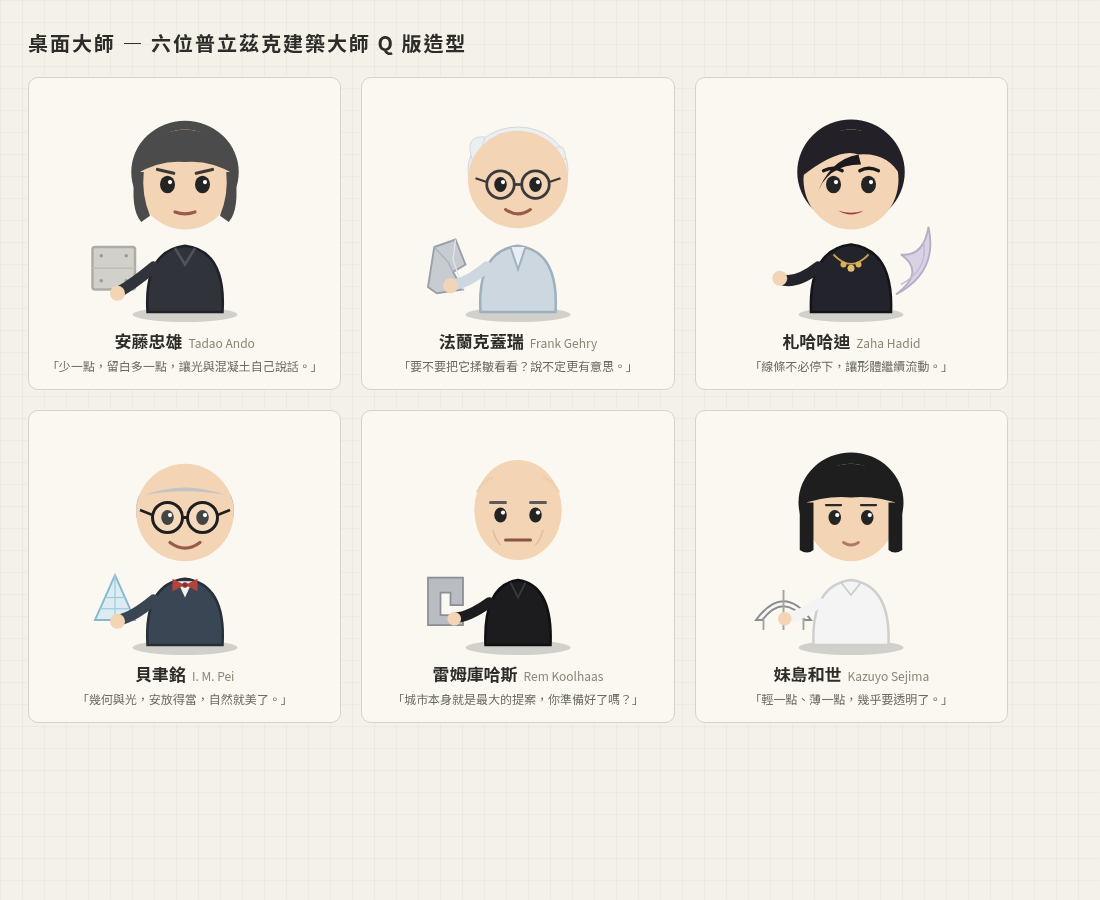
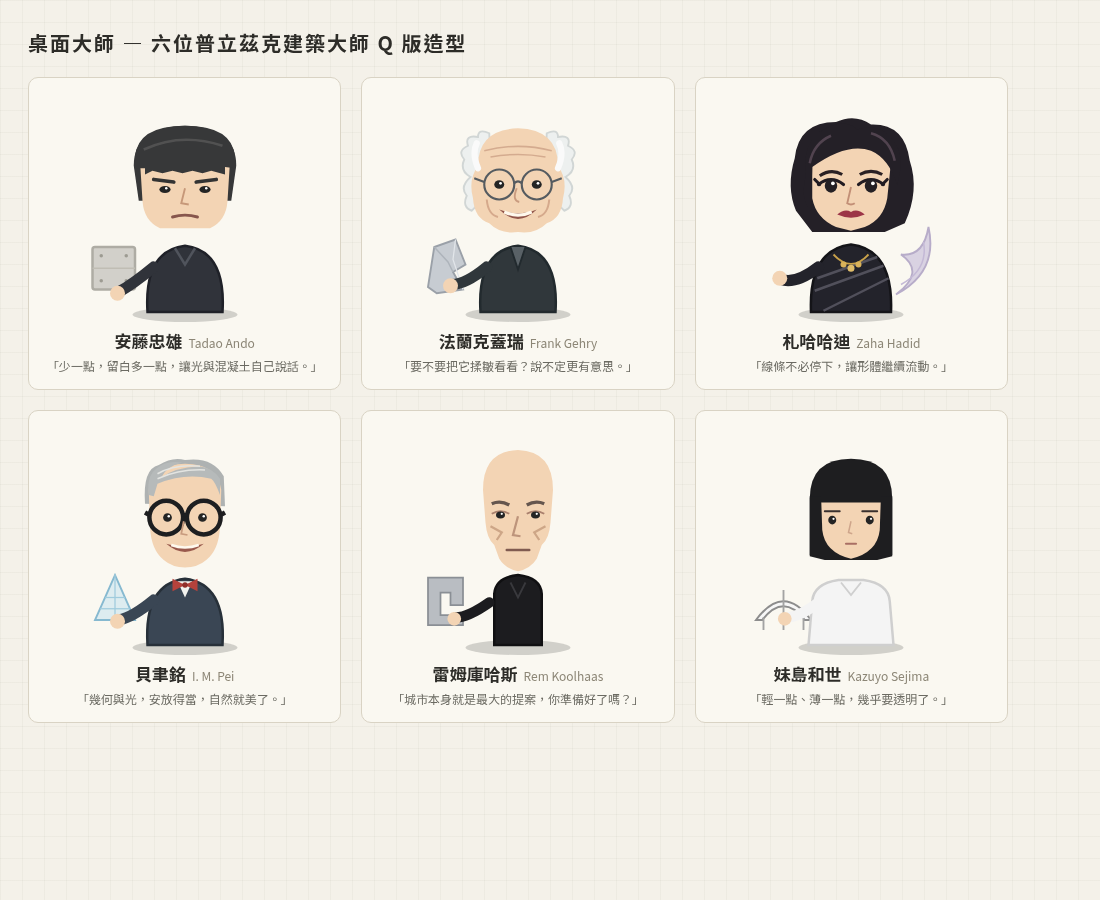
feat: 加強六位大師 Q 版肖像辨識度
以更誇張的漫畫特徵重畫安藤、蓋瑞、哈迪、貝聿銘、庫哈斯、妹島：
各自不同的臉型與髮型（安藤平瀏海頭、蓋瑞禿頂白鬚邊髮、貝聿銘大圓框等），
並保留原有動畫 class 與角色資料。

diff --git a/renderer/characters.js b/renderer/characters.js
@@ -68,16 +68,16 @@
         <circle class="hand" cx="26" cy="157" r="6" fill="${SKIN}"/>
       </g>
       <g class="head">
-        <ellipse cx="80" cy="60" rx="43" ry="41" fill="#4b4b4b"/>
-        <ellipse class="face" cx="80" cy="66" rx="39" ry="40" fill="${SKIN}"/>
-        <path d="M40 62 Q40 29 80 26 Q120 29 120 62 Q100 50 80 52 Q60 50 40 62 Z" fill="#4b4b4b"/>
-        <path d="M40 60 Q36 90 45 100 L52 95 Q45 78 47 60 Z" fill="#4b4b4b"/>
-        <path d="M120 60 Q124 90 115 100 L108 95 Q115 78 113 60 Z" fill="#4b4b4b"/>
-        <line x1="58" y1="58" x2="71" y2="61" stroke="#3a3a3a" stroke-width="2.6" stroke-linecap="round"/>
-        <line x1="102" y1="58" x2="89" y2="61" stroke="#3a3a3a" stroke-width="2.6" stroke-linecap="round"/>
-        <g class="eyes">${eyes(66, 94, 70)}</g>
-        <path class="mouth" d="M72 92 Q80 95 88 92" fill="none" stroke="#9a5a4a" stroke-width="2.6" stroke-linecap="round"/>
-        <path class="mouth-happy" display="none" d="M70 90 Q80 100 90 90 Q80 96 70 90 Z" fill="#b5674f"/>
+        <path d="M39 55 Q39 24 80 23 Q121 24 121 55 L117 83 L43 83 Z" fill="#373839"/>
+        <path class="face" d="M44 51 L116 51 L114 83 Q113 99 100 105 L60 105 Q47 99 46 83 Z" fill="${SKIN}"/>
+        <path d="M40 57 L40 48 Q42 23 80 23 Q118 23 120 48 L120 57 L112 56 L112 62 L101 59 L94 61 L86 59 L78 61 L70 59 L62 61 L54 59 L48 62 L48 57 Z" fill="#373839"/>
+        <path d="M47 42 Q77 28 110 39" fill="none" stroke="#626262" stroke-width="2" opacity=".6"/>
+        <path d="M55 66 L71 68 M89 68 L105 66" stroke="#333" stroke-width="3" stroke-linecap="round"/>
+        <ellipse class="eye" cx="64" cy="74" rx="4.5" ry="2.8" fill="#242424"/><ellipse class="eye" cx="96" cy="74" rx="4.5" ry="2.8" fill="#242424"/>
+        <circle class="shine" cx="65" cy="73" r="1" fill="white"/><circle class="shine" cx="97" cy="73" r="1" fill="white"/>
+        <path d="M80 73 L77 85 L83 86" fill="none" stroke="#c69879" stroke-width="1.5"/>
+        <path class="mouth" d="M70 96 Q80 93 90 96" fill="none" stroke="#87564c" stroke-width="2.3" stroke-linecap="round"/>
+        <path class="mouth-happy" display="none" d="M70 94 Q80 101 90 94" fill="none" stroke="#87564c" stroke-width="2.5" stroke-linecap="round"/>
         ${THINK_DOTS}
       </g>
       ${SKETCH}
@@ -94,32 +94,25 @@
     </g>
     <g class="pet-body">
       <g class="body">
-        <path d="M50 172 Q47 123 80 119 Q113 123 110 172 Z" fill="#cdd7e0" stroke="#9fb0bd" stroke-width="2"/>
-        <path d="M74 120 L80 138 L86 120" fill="#e7edf2" stroke="#9fb0bd" stroke-width="1.5"/>
+        <path d="M50 172 Q47 123 80 119 Q113 123 110 172 Z" fill="#30373b" stroke="#222a2e" stroke-width="2"/>
+        <path d="M74 120 L80 138 L86 120" fill="#596166" stroke="#222a2e" stroke-width="1.5"/>
       </g>
       <g class="gesture-arm">
-        <path d="M55 136 Q38 150 27 150" fill="none" stroke="#cdd7e0" stroke-width="9" stroke-linecap="round"/>
+        <path d="M55 136 Q38 150 27 150" fill="none" stroke="#30373b" stroke-width="9" stroke-linecap="round"/>
         <circle class="hand" cx="26" cy="151" r="6" fill="${SKIN}"/>
       </g>
       <g class="head">
-        <g stroke="#d4d8db" stroke-width="0.8">
-          <ellipse cx="80" cy="58" rx="40" ry="34" fill="#eceff1"/>
-          <path d="M44 52 Q36 30 54 32 Q48 42 56 52 Z" fill="#eceff1"/>
-          <path d="M60 40 Q62 24 74 32 Q68 40 72 48 Z" fill="#eceff1"/>
-          <path d="M84 38 Q92 24 98 36 Q92 42 96 50 Z" fill="#eceff1"/>
-          <path d="M104 46 Q118 32 118 50 Q110 48 108 56 Z" fill="#eceff1"/>
-        </g>
-        <ellipse class="face" cx="80" cy="66" rx="40" ry="39" fill="${SKIN}"/>
-        <g class="eyes">${eyes(66, 94, 70, 5)}</g>
-        <g class="glasses">
-          <circle cx="66" cy="70" r="11" fill="none" stroke="#3a3a3a" stroke-width="2.2"/>
-          <circle cx="94" cy="70" r="11" fill="none" stroke="#3a3a3a" stroke-width="2.2"/>
-          <line x1="77" y1="70" x2="83" y2="70" stroke="#3a3a3a" stroke-width="2.2"/>
-          <line x1="55" y1="68" x2="46" y2="65" stroke="#3a3a3a" stroke-width="1.8"/>
-          <line x1="105" y1="68" x2="114" y2="65" stroke="#3a3a3a" stroke-width="1.8"/>
-        </g>
-        <path class="mouth" d="M70 90 Q80 97 90 90" fill="none" stroke="#9a5a4a" stroke-width="2.4" stroke-linecap="round"/>
-        <path class="mouth-happy" display="none" d="M68 89 Q80 101 92 89 Q80 96 68 89 Z" fill="#b5674f"/>
+        <path d="M42 64 Q33 59 37 50 Q31 43 40 39 Q37 30 48 32 Q48 25 57 29 L59 75 L43 91 Q35 88 39 79 Q33 72 42 64 Z M118 64 Q127 59 123 50 Q129 43 120 39 Q123 30 112 32 Q112 25 103 29 L101 75 L117 91 Q125 88 121 79 Q127 72 118 64 Z" fill="#edf0ef" stroke="#d1d6d5" stroke-width="1.5"/>
+        <path class="face" d="M48 55 Q48 26 80 25 Q112 26 112 55 Q120 66 116 81 Q115 97 103 101 Q94 110 80 108 Q66 110 57 101 Q45 97 44 81 Q40 66 48 55 Z" fill="${SKIN}"/>
+        <path d="M53 43 Q80 36 107 43 M58 48 Q80 44 102 48" fill="none" stroke="#d4ab8f" stroke-width="1.2"/>
+        <path d="M48 57 Q43 45 47 37 M112 57 Q117 45 113 37" fill="none" stroke="#fafafa" stroke-width="5" stroke-linecap="round"/>
+        <path d="M55 82 Q56 94 64 96 M105 82 Q104 94 96 96" fill="none" stroke="#d5a98c" stroke-width="1.6"/>
+        <ellipse class="eye" cx="65" cy="70" rx="4" ry="3.4" fill="#242424"/><ellipse class="eye" cx="95" cy="70" rx="4" ry="3.4" fill="#242424"/>
+        <circle class="shine" cx="66" cy="69" r="1.1" fill="white"/><circle class="shine" cx="96" cy="69" r="1.1" fill="white"/>
+        <g class="glasses" fill="none" stroke="#555b60" stroke-width="1.7"><circle cx="65" cy="70" r="12"/><circle cx="95" cy="70" r="12"/><path d="M77 69 Q80 66 83 69 M53 68 L45 65 M107 68 L115 65"/></g>
+        <path d="M79 73 Q75 83 81 84" fill="none" stroke="#c99b7f" stroke-width="1.5"/>
+        <path class="mouth" d="M65 90 Q80 105 95 90 Q80 96 65 90 Z" fill="#92564b"/><path class="mouth" d="M69 92 Q80 97 91 92" fill="none" stroke="#fff9ed" stroke-width="2.5"/>
+        <path class="mouth-happy" display="none" d="M62 88 Q80 110 98 88 Q80 98 62 88 Z" fill="#9b514a"/>
         ${THINK_DOTS}
       </g>
       ${SKETCH}
@@ -136,7 +129,7 @@
     <g class="pet-body">
       <g class="body">
         <path d="M48 172 Q46 122 80 118 Q114 122 112 172 Z" fill="#23232b" stroke="#141418" stroke-width="2"/>
-        <path d="M66 126 Q80 141 94 126" fill="none" stroke="#c9a24a" stroke-width="1.5"/>
+        <path d="M53 145 L101 128 M51 155 L106 135 M58 171 L110 145" fill="none" stroke="#51505b" stroke-width="2"/><path d="M66 126 Q80 141 94 126" fill="none" stroke="#c9a24a" stroke-width="1.5"/>
         <circle cx="74" cy="134" r="2.4" fill="#d9b25a"/><circle cx="80" cy="137" r="2.8" fill="#e0bd6a"/><circle cx="86" cy="134" r="2.4" fill="#d9b25a"/>
       </g>
       <g class="gesture-arm">
@@ -144,15 +137,17 @@
         <circle class="hand" cx="23" cy="145" r="6" fill="${SKIN}"/>
       </g>
       <g class="head">
-        <ellipse cx="80" cy="60" rx="43" ry="42" fill="#242027"/>
-        <ellipse class="face" cx="80" cy="66" rx="38" ry="40" fill="${SKIN}"/>
-        <path d="M40 64 Q38 28 80 26 Q122 28 120 64 Q110 44 86 46 Q70 40 40 64 Z" fill="#242027"/>
-        <path d="M86 46 Q62 50 52 80 Q60 54 88 54 Z" fill="#1b181f"/>
-        <path d="M58 59 Q66 55 73 59" stroke="#1a1a1a" stroke-width="2.6" fill="none" stroke-linecap="round"/>
-        <path d="M87 59 Q94 55 102 59" stroke="#1a1a1a" stroke-width="2.6" fill="none" stroke-linecap="round"/>
-        <g class="eyes">${eyes(66, 94, 70)}</g>
-        <path class="mouth" d="M70 91 Q80 97 90 91 Q80 94 70 91 Z" fill="#9c3b4a"/>
-        <path class="mouth-happy" display="none" d="M68 90 Q80 100 92 90 Q80 95 68 90 Z" fill="#b4475a"/>
+        <path d="M36 91 Q28 72 35 49 Q38 20 68 20 Q83 13 96 22 Q123 21 127 51 Q135 75 123 101 L107 108 L49 108 Z" fill="#242027"/>
+        <path class="face" d="M49 49 Q55 34 80 34 Q103 32 112 52 L109 81 Q106 98 91 104 L80 107 L68 104 Q52 97 49 81 Z" fill="${SKIN}"/>
+        <path d="M44 62 Q40 35 60 25 Q75 17 85 26 Q107 19 118 42 Q122 53 117 70 Q110 49 96 43 Q77 36 49 56 L48 91 Q39 83 44 62 Z" fill="#242027"/>
+        <path d="M96 29 Q111 33 115 51 M47 53 Q50 37 64 31" fill="none" stroke="#51434f" stroke-width="2"/>
+        <path d="M55 63 Q64 57 73 62 M87 62 Q96 57 105 62" fill="none" stroke="#2a2023" stroke-width="2.5"/>
+        <path d="M54 70 Q64 62 74 70 M86 70 Q96 62 106 70 M55 70 L51 66 M105 70 L109 66" fill="none" stroke="#211b21" stroke-width="2.5" stroke-linecap="round"/>
+        <ellipse class="eye" cx="64" cy="71" rx="5" ry="5.5" fill="#242024"/><ellipse class="eye" cx="96" cy="71" rx="5" ry="5.5" fill="#242024"/>
+        <circle class="shine" cx="65.5" cy="69" r="1.5" fill="white"/><circle class="shine" cx="97.5" cy="69" r="1.5" fill="white"/>
+        <path d="M80 72 L77 85 Q80 87 83 85" fill="none" stroke="#c28f76" stroke-width="1.5"/>
+        <path class="mouth" d="M69 94 Q75 89 80 92 Q85 89 91 94 Q80 99 69 94 Z" fill="#9c3547"/>
+        <path class="mouth-happy" display="none" d="M67 92 Q80 104 93 92 Q80 97 67 92 Z" fill="#ad3d50"/>
         ${THINK_DOTS}
       </g>
       ${SKETCH}
@@ -180,20 +175,16 @@
         <circle class="hand" cx="26" cy="153" r="6" fill="${SKIN}"/>
       </g>
       <g class="head">
-        <path d="M41 70 Q39 48 54 44 Q48 60 50 74 Z" fill="#b9b9b9"/>
-        <path d="M119 70 Q121 48 106 44 Q112 60 110 74 Z" fill="#b9b9b9"/>
-        <ellipse class="face" cx="80" cy="66" rx="39" ry="39" fill="${SKIN}"/>
-        <path d="M48 52 Q80 40 112 52 Q80 46 48 52 Z" fill="#c4c4c4"/>
-        <g class="eyes">${eyes(66, 94, 70, 5)}</g>
-        <g class="glasses">
-          <circle cx="66" cy="70" r="12" fill="#ffffff" fill-opacity="0.15" stroke="#1e1e1e" stroke-width="2.4"/>
-          <circle cx="94" cy="70" r="12" fill="#ffffff" fill-opacity="0.15" stroke="#1e1e1e" stroke-width="2.4"/>
-          <line x1="78" y1="70" x2="82" y2="70" stroke="#1e1e1e" stroke-width="2.4"/>
-          <line x1="54" y1="68" x2="44" y2="64" stroke="#1e1e1e" stroke-width="2"/>
-          <line x1="106" y1="68" x2="116" y2="64" stroke="#1e1e1e" stroke-width="2"/>
-        </g>
-        <path class="mouth" d="M68 90 Q80 99 92 90" fill="none" stroke="#9a5a4a" stroke-width="2.6" stroke-linecap="round"/>
-        <path class="mouth-happy" display="none" d="M66 89 Q80 102 94 89 Q80 97 66 89 Z" fill="#b5674f"/>
+        <path d="M48 59 Q46 31 59 28 Q70 21 80 24 Q102 21 111 37 L112 61 Z" fill="#aeb2b2"/>
+        <path class="face" d="M51 48 Q54 27 80 27 Q106 27 109 48 L108 78 Q107 96 97 104 Q90 110 80 110 Q70 110 63 104 Q53 96 52 78 Z" fill="${SKIN}"/>
+        <path d="M51 52 Q49 37 57 31 Q64 24 78 26 Q65 29 61 38 Q72 30 91 29 Q102 30 108 39 L108 52 Q104 41 101 39 Q80 34 58 43 L55 53 Z" fill="#b6baba"/>
+        <path d="M58 35 Q72 27 92 29 M58 39 Q76 31 96 32" fill="none" stroke="#e3e4e1" stroke-width="1.2"/>
+        <ellipse class="eye" cx="66" cy="70" rx="3.5" ry="3.4" fill="#242424"/><ellipse class="eye" cx="94" cy="70" rx="3.5" ry="3.4" fill="#242424"/>
+        <circle class="shine" cx="67" cy="69" r="1" fill="white"/><circle class="shine" cx="95" cy="69" r="1" fill="white"/>
+        <g class="glasses" fill="none" stroke="#1d1e20" stroke-width="3.6"><circle cx="65" cy="70" r="13.5"/><circle cx="95" cy="70" r="13.5"/><path d="M78.5 69 Q80 67 81.5 69 M51.5 68 L48 66 M108.5 68 L112 66"/></g>
+        <path d="M79 73 L77 83 L82 84" fill="none" stroke="#c89b7e" stroke-width="1.4"/>
+        <path class="mouth" d="M65 91 Q80 104 95 91 Q80 96 65 91 Z" fill="#99594c"/><path class="mouth" d="M69 92 Q80 96 91 92" fill="none" stroke="#fff9ee" stroke-width="2"/>
+        <path class="mouth-happy" display="none" d="M62 89 Q80 109 98 89 Q80 97 62 89 Z" fill="#a85b4e"/>
         ${THINK_DOTS}
       </g>
       ${SKETCH}
@@ -208,7 +199,7 @@
     </g>
     <g class="pet-body">
       <g class="body">
-        <path d="M54 172 Q52 124 80 120 Q108 124 106 172 Z" fill="#1c1c1f" stroke="#101012" stroke-width="2"/>
+        <path d="M61 172 L61 131 Q62 118 80 116 Q98 118 99 131 L99 172 Z" fill="#1c1c1f" stroke="#101012" stroke-width="2"/>
         <path d="M74 122 L80 134 L86 122" fill="none" stroke="#39393d" stroke-width="1.5"/>
       </g>
       <g class="gesture-arm">
@@ -216,16 +207,15 @@
         <circle class="hand" cx="29" cy="151" r="5.5" fill="${SKIN}"/>
       </g>
       <g class="head">
-        <ellipse class="face" cx="80" cy="64" rx="35" ry="40" fill="${SKIN}"/>
-        <path d="M47 50 Q52 40 60 38" fill="none" stroke="#e7cbab" stroke-width="2" opacity="0.6"/>
-        <path d="M113 50 Q108 40 100 38" fill="none" stroke="#e7cbab" stroke-width="2" opacity="0.6"/>
-        <path d="M60 80 Q62 88 66 92" fill="none" stroke="#dcb892" stroke-width="1.4" opacity="0.7"/>
-        <path d="M100 80 Q98 88 94 92" fill="none" stroke="#dcb892" stroke-width="1.4" opacity="0.7"/>
-        <line x1="58" y1="58" x2="70" y2="58" stroke="#5b5b5b" stroke-width="2.4" stroke-linecap="round"/>
-        <line x1="90" y1="58" x2="102" y2="58" stroke="#5b5b5b" stroke-width="2.4" stroke-linecap="round"/>
-        <g class="eyes">${eyes(66, 94, 68, 5)}</g>
-        <path class="mouth" d="M70 88 L90 88" fill="none" stroke="#8a5346" stroke-width="2.4" stroke-linecap="round"/>
-        <path class="mouth-happy" display="none" d="M72 88 Q80 94 88 88" fill="none" stroke="#8a5346" stroke-width="2.4" stroke-linecap="round"/>
+        <path class="face" d="M52 48 Q52 17 80 16 Q108 17 108 48 L106 74 Q105 87 99 92 L95 103 Q90 111 80 113 Q70 111 65 103 L61 92 Q55 87 54 74 Z" fill="${SKIN}"/>
+        <path d="M58 77 L67 82 L63 88 M102 77 L93 82 L97 88" fill="none" stroke="#cda687" stroke-width="1.8"/>
+        <path d="M59 59 Q66 56 73 60 M87 60 Q94 56 101 59" fill="none" stroke="#65564e" stroke-width="2.6"/>
+        <path d="M59 67 Q66 63 73 67 M87 67 Q94 63 101 67" fill="none" stroke="#a9806d" stroke-width="1.6"/>
+        <ellipse class="eye" cx="66" cy="68" rx="3.6" ry="2.8" fill="#242424"/><ellipse class="eye" cx="94" cy="68" rx="3.6" ry="2.8" fill="#242424"/>
+        <circle class="shine" cx="67" cy="67" r=".9" fill="white"/><circle class="shine" cx="95" cy="67" r=".9" fill="white"/>
+        <path d="M80 69 L76 84 L82 85" fill="none" stroke="#bd947b" stroke-width="1.8"/>
+        <path class="mouth" d="M71 96 L89 96" fill="none" stroke="#805b50" stroke-width="2" stroke-linecap="round"/>
+        <path class="mouth-happy" display="none" d="M71 95 Q80 100 89 95" fill="none" stroke="#805b50" stroke-width="2" stroke-linecap="round"/>
         ${THINK_DOTS}
       </g>
       ${SKETCH}
@@ -243,7 +233,7 @@
     </g>
     <g class="pet-body">
       <g class="body">
-        <path d="M50 172 Q48 124 80 120 Q112 124 110 172 Z" fill="#f4f4f4" stroke="#cfcfcf" stroke-width="2"/>
+        <path d="M46 172 L49 137 Q50 123 70 120 L90 120 Q110 123 111 137 L114 172 Z" fill="#f4f4f4" stroke="#cfcfcf" stroke-width="2"/>
         <path d="M72 122 L80 132 L88 122" fill="none" stroke="#cfcfcf" stroke-width="1.5"/>
       </g>
       <g class="gesture-arm">
@@ -251,16 +241,16 @@
         <circle class="hand" cx="27" cy="151" r="5.5" fill="${SKIN}"/>
       </g>
       <g class="head">
-        <ellipse cx="80" cy="58" rx="42" ry="40" fill="#1e1e1e"/>
-        <ellipse class="face" cx="80" cy="66" rx="36" ry="39" fill="${SKIN}"/>
-        <path d="M39 60 Q40 30 80 27 Q120 30 121 60 Q100 52 80 54 Q60 52 39 60 Z" fill="#1e1e1e"/>
-        <path d="M39 58 L39 96 Q45 100 50 96 L50 58 Z" fill="#1e1e1e"/>
-        <path d="M121 58 L121 96 Q115 100 110 96 L110 58 Z" fill="#1e1e1e"/>
-        <line x1="60" y1="60" x2="72" y2="60" stroke="#2a2a2a" stroke-width="1.8" stroke-linecap="round"/>
-        <line x1="100" y1="60" x2="88" y2="60" stroke="#2a2a2a" stroke-width="1.8" stroke-linecap="round"/>
-        <g class="eyes">${eyes(67, 93, 70, 5)}</g>
-        <path class="mouth" d="M74 90 Q80 94 86 90" fill="none" stroke="#b07a6a" stroke-width="2.2" stroke-linecap="round"/>
-        <path class="mouth-happy" display="none" d="M72 90 Q80 97 88 90" fill="none" stroke="#b07a6a" stroke-width="2.4" stroke-linecap="round"/>
+        <path d="M47 55 Q47 23 80 23 Q113 23 113 55 L113 101 L101 104 L59 104 L47 101 Z" fill="#1e1e20"/>
+        <path class="face" d="M56 51 L104 51 L103 80 Q101 98 80 103 Q59 98 57 80 Z" fill="${SKIN}"/>
+        <path d="M48 54 Q48 24 80 24 Q112 24 112 54 L104 55 L104 58 L56 58 L56 55 Z" fill="#1e1e20"/>
+        <path d="M47 53 L56 53 L56 101 L47 100 Z M104 53 L113 53 L113 100 L104 101 Z" fill="#1e1e20"/>
+        <path d="M59 65 L71 65 M89 65 L101 65" stroke="#39302e" stroke-width="1.5" stroke-linecap="round"/>
+        <ellipse class="eye" cx="65" cy="72" rx="3.2" ry="3.5" fill="#242424"/><ellipse class="eye" cx="95" cy="72" rx="3.2" ry="3.5" fill="#242424"/>
+        <circle class="shine" cx="66" cy="71" r=".9" fill="white"/><circle class="shine" cx="96" cy="71" r=".9" fill="white"/>
+        <path d="M80 73 L78 82 L81 83" fill="none" stroke="#cea58b" stroke-width="1.2"/>
+        <path class="mouth" d="M76 91 L84 91" fill="none" stroke="#a96f64" stroke-width="1.7" stroke-linecap="round"/>
+        <path class="mouth-happy" display="none" d="M74 90 Q80 95 86 90" fill="none" stroke="#a96f64" stroke-width="1.9" stroke-linecap="round"/>
         ${THINK_DOTS}
       </g>
       ${SKETCH}
